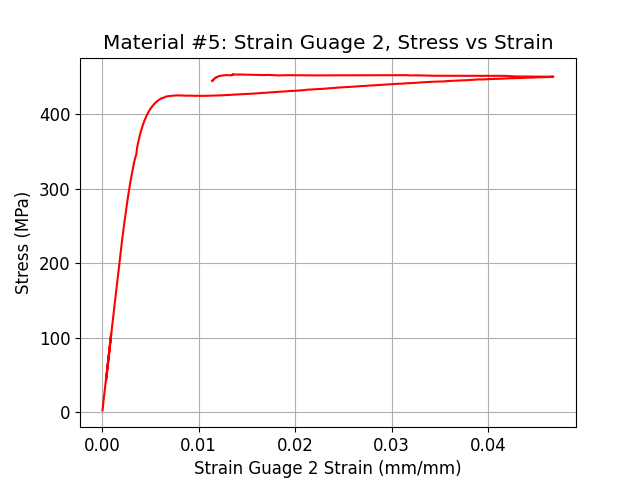
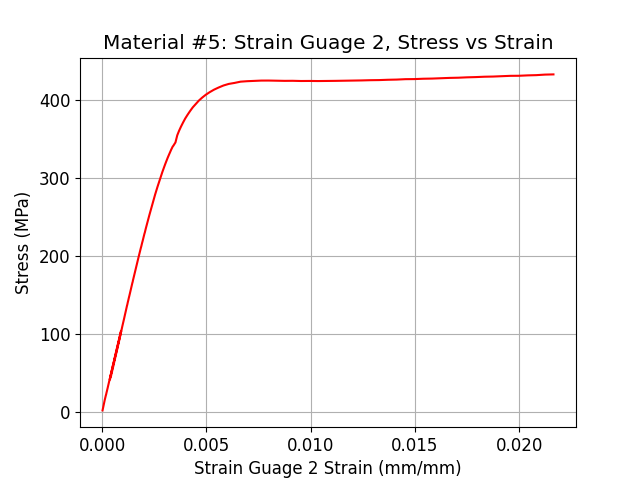
troubleshooting graph discrepencies

diff --git a/src/graphing.py b/src/graphing.py
@@ -27,13 +27,15 @@ def StrainGraph(data: pd.DataFrame, test_num: np.int8, sensor: np.array, save: b
     save : bool
         save graphs or not
     '''
+    plot_ind = 600
+
     # finding plot limits:
-    max_strain = max(data[['MTS', 'Laser', 'Strain Guage 1', 'Strain Guage 2']].max(axis=1))
+    max_strain = max(data[['MTS', 'Laser', 'Strain Guage 1', 'Strain Guage 2']][0:plot_ind].max(axis=1))
     max_stress = max(data['MTS_stress'])
 
     for s in sensor:
         print(" Generating " + str(s) + " strain plot..")
-        plt.plot(data[s], data.MTS_stress, color = 'r')
+        plt.plot(data[s][0:plot_ind], data.MTS_stress[0:plot_ind], color = 'r')
         params = {'mathtext.default': 'regular' }          
         plt.rcParams.update(params)
         plt.rcParams.update({'font.size': 12})
@@ -42,9 +44,9 @@ def StrainGraph(data: pd.DataFrame, test_num: np.int8, sensor: np.array, save: b
         plt.ylabel('Stress (MPa)')
         # plt.legend([str(s) + ' Data - Material #' + str(test_num)])
         plt.grid()
-        if s not in ['Strain Guage 1', 'Strain Guage 2']:
-            plt.xlim((max_strain*-0.1,max_strain*1.1))
-            plt.ylim((max_stress*-0.1,max_stress*1.1))
+        # if s not in ['Strain Guage 1', 'Strain Guage 2']:
+        #     plt.xlim((max_strain*-0.1,max_strain*1.1))
+        #     plt.ylim((max_stress*-0.1,max_stress*1.1))
         if save:
             os.makedirs(f'results/Test_{test_num}-graphs/', exist_ok=True)
             plt.savefig(f'results/Test_{test_num}-graphs/{s}_strain.png')

diff --git a/src/main.py b/src/main.py
@@ -55,9 +55,10 @@ for test_num in range(1,6):
     parsed_data.MTS_stress = parsed_data['MTS_F'] / (sample_dimensions['B' + str(test_num)]['width'] * sample_dimensions['B' + str(test_num)]['thickness'])
     parsed_data.Laser = ((parsed_data['Laser']-parsed_data['Laser'][0])/parsed_data['Laser'][0])
     parsed_data.MTS = -((parsed_data['MTS']-parsed_data['MTS'][0])/parsed_data['MTS'][0])
-    parsed_data['Strain Guage 1'] = -1 * parsed_data['Strain Guage 1'][0:800]
+    parsed_data['Strain Guage 1'] = -1 * parsed_data['Strain Guage 1'][0:800] # filtering out some 'post guage break' 
     parsed_data['Strain Guage 2'] =      parsed_data['Strain Guage 2'][0:800]
 
+    print(parsed_data[0:500])
     if test_num == 1:
         parsed_data.Laser = parsed_data.Laser[0:985] # Filtering out noise
 
